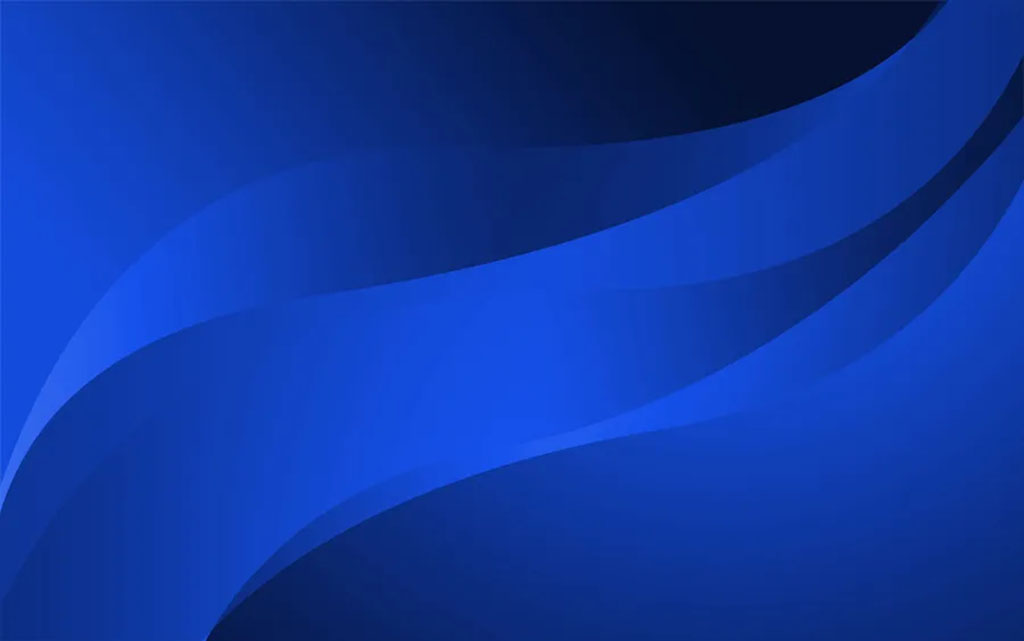
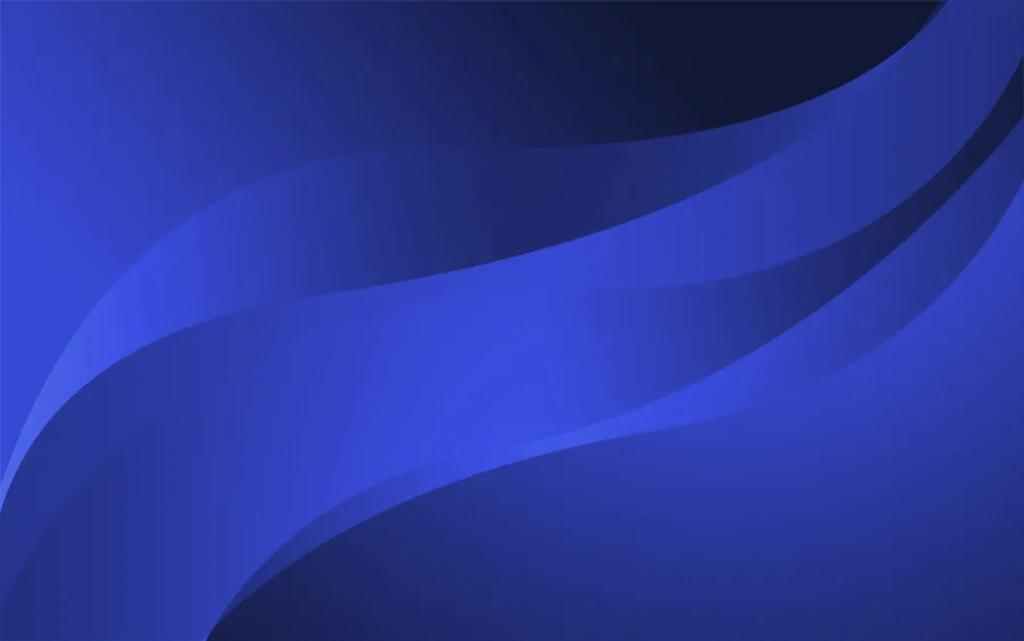
Refactor Home page with a global background

diff --git a/frontend/src/layouts/HomeLayout.vue b/frontend/src/layouts/HomeLayout.vue
@@ -20,10 +20,10 @@ const headerLinks = shallowRef([
   },
 ]);
 const wallPaper = shallowRef({
-  imgFallback: "src/assets/images/home_wallpaper.jpg",
+  imgFallback: "src/assets/images/wavy-blue-background-1024.jpg",
   sourcePaths: [
-    "src/assets/images/home_wallpaper.avif",
-    "src/assets/images/home_wallpaper.webp",
+    "src/assets/images/wavy-blue-background-1024.avif",
+    "src/assets/images/wavy-blue-background-1024.webp",
   ],
 });
 </script>
@@ -101,21 +101,15 @@ const wallPaper = shallowRef({
   </v-toolbar>
 
   <v-main class="background">
-    <v-row no-gutters height="100%">
-      <v-col cols="6" md="4" class="hidden-xs">
-        <HomeWallpaper
-          :img-fallback="wallPaper.imgFallback"
-          :source-paths="wallPaper.sourcePaths"
-        />
-      </v-col>
-
-      <v-col cols="12" sm="6" md="4">
+    <v-row class="position-relative bg-home" no-gutters>
+      <v-col cols="12" class="d-flex align-center">
         <v-sheet
-          class="d-flex flex-wrap align-center justify-center text-center mx-auto px-4"
+          class="d-flex flex-wrap align-center justify-center text-center mx-auto"
           elevation="0"
           height="calc(100dvh - 96px)"
+          color="transparent"
         >
-          <div>
+          <div class="pa-4 bg-surface rounded-xl">
             <v-icon icon="mdi-bike" color="primary" size="x-large"></v-icon>
 
             <h2 class="text-h4 font-weight-black text-primary mb-4">
@@ -172,15 +166,36 @@ const wallPaper = shallowRef({
           </div>
         </v-sheet>
       </v-col>
-
-      <v-col cols="4" class="hidden-sm-and-down">
-        <HomeWallpaper
-          :img-fallback="wallPaper.imgFallback"
-          :source-paths="wallPaper.sourcePaths"
-        />
-      </v-col>
     </v-row>
   </v-main>
 
   <AuthFooter />
 </template>
+
+<style lang="scss">
+.loginBox {
+  max-width: 475px;
+  margin: 0 auto;
+}
+.bg-home {
+  background-position: center;
+  background-size: cover;
+  background-repeat: no-repeat;
+  /* Fallback */
+  background-image: url("src/assets/images/wavy-blue-background-1024.jpg");
+
+  /* Prefixed */
+  background-image: -webkit-image-set(
+    url("src/assets/images/wavy-blue-background-1024.avif") type("image/avif"),
+    url("src/assets/images/wavy-blue-background-1024.webp") type("image/webp"),
+    url("src/assets/images/wavy-blue-background-1024.jpg") type("image/jpeg")
+  );
+
+  /* Default */
+  background-image: image-set(
+    url("src/assets/images/wavy-blue-background-1024.avif") type("image/avif"),
+    url("src/assets/images/wavy-blue-background-1024.webp") type("image/webp"),
+    url("src/assets/images/wavy-blue-background-1024.jpg") type("image/jpeg")
+  );
+}
+</style>
